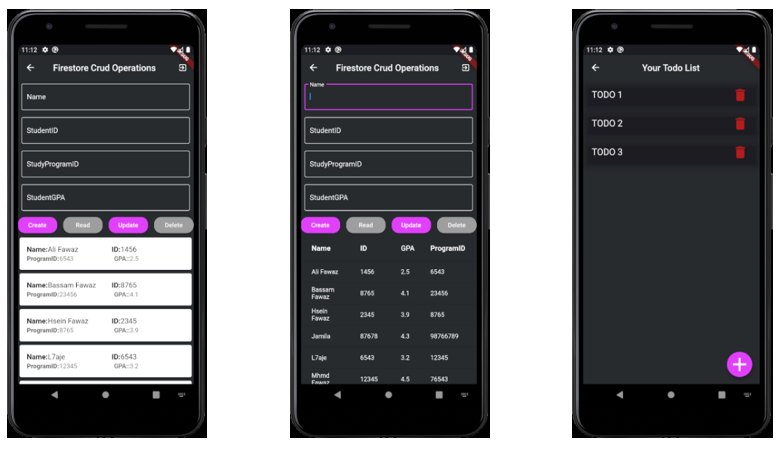
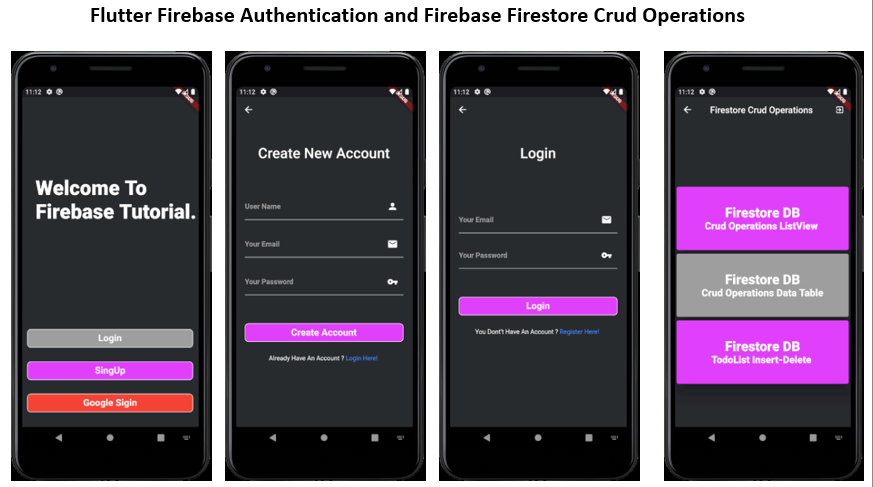
Updating some UI

diff --git a/lib/MainPage.dart b/lib/MainPage.dart
@@ -46,84 +46,98 @@ class _GridLayoutState extends State<GridLayout> {
   @override
   Widget build(BuildContext context) {
     return Center(
-      child:Column(
-        mainAxisAlignment: MainAxisAlignment.center,
-        crossAxisAlignment: CrossAxisAlignment.start,
-        children: [
+      child: ListView(children: [
+        SizedBox(height:140),
 
-        TextButton(
-            onPressed: () {
-              Navigator.push(
+         InkWell(
+
+           onTap: (){
+                  Navigator.push(
                               context,
                               MaterialPageRoute(builder: (context) => D()),
                               );
+           },
+                    child: Card(
+                      color: Colors.purpleAccent,
+                     elevation: 20,
+                child:
+                Container(
+                    padding:EdgeInsets.all(40),
 
-            },
-            child: Column(
-              children: [
-                Text(
-                  'Firestore DB\nCrud ListView',
-                ),
-                SizedBox(height: 30),
-              ],
+                    child:new Column(
+                        crossAxisAlignment: CrossAxisAlignment.start,
+                        children:<Widget>[
+                          Center(child:Text("Firestore DB",style: TextStyle(fontSize:30,fontWeight:FontWeight.w900,color : Colors.white),)),
+
+                          Center(child:Text("Crud Operations ListView ",style: TextStyle(color:Colors.white,fontSize:22,fontWeight:FontWeight.w900))),
+
+                        ]
+                    )
+                )
             ),
-            style: TextButton.styleFrom(
-                primary: Colors.white,
-                backgroundColor: Colors.purpleAccent,
-                textStyle: TextStyle(fontSize: 24, fontWeight: FontWeight.bold)),
-          ),
-            SizedBox(height: 40,),
-            TextButton(
-            onPressed: () {
+         ),
 
-              
-              Navigator.push(
+
+          InkWell(
+
+           onTap: (){
+                      Navigator.push(
                               context,
                               MaterialPageRoute(builder: (context) => D1()),
                               );
-                              
+           },
+                    child: Card(
+                      color: Colors.grey,
+                     elevation: 20,
+                child:
+                Container(
+                    padding:EdgeInsets.all(40),
 
-            },
-            child: 
-              Column(
-                children: [
-                  Text(
-                  'Firestore DB\nCrud DataTable',
-                 ),
-                  SizedBox(height: 30),
-                ],
-              ),
-            style: TextButton.styleFrom(
-                primary: Colors.white,
-                backgroundColor: Colors.grey,
-                textStyle: TextStyle(fontSize: 24, fontWeight: FontWeight.bold)),
-          ),
-            SizedBox(height: 40,),
-            TextButton(
-            onPressed: () {
-              
-              Navigator.push(
+                    child:new Column(
+                        crossAxisAlignment: CrossAxisAlignment.start,
+                        children:<Widget>[
+                          Center(child:Text("Firestore DB",style: TextStyle(fontSize:30,fontWeight:FontWeight.w900,color : Colors.white),)),
+
+                          Center(child:Text("Crud Operations Data Table",style: TextStyle(color: Colors.white,fontSize:22,fontWeight:FontWeight.w900))),
+
+                        ]
+                    )
+                )
+            ),
+         ),
+
+          InkWell(
+
+           onTap: (){
+                  Navigator.push(
                               context,
                               MaterialPageRoute(builder: (context) => Todos()),
                               );
-                              
-            },
-            child:
-             Column(
-               children: [
-                 Text(
-                  'Todo List\nFirestore DB\nCrud',
+           },
+                    child: Card(
+                      color: Colors.purpleAccent,
+                     elevation: 20,
+                child:
+                Container(
+                    padding:EdgeInsets.all(40),
+
+                    child:new Column(
+                        crossAxisAlignment: CrossAxisAlignment.start,
+                        children:<Widget>[
+                          Center(child:Text("Firestore DB",style: TextStyle(fontSize:30,fontWeight:FontWeight.w900,color : Colors.white),)),
+
+                          Center(child:Text("TodoList Insert-Delete ",style: TextStyle(color: Colors.white, fontSize:22,fontWeight:FontWeight.w900))),
+
+                        ]
+                    )
+                )
             ),
-             SizedBox(height: 30),
-               ],
-             ),
-            style: TextButton.styleFrom(
-                primary: Colors.white,
-                backgroundColor: Colors.purpleAccent,
-                textStyle: TextStyle(fontSize: 24, fontWeight: FontWeight.bold)),
-          ),
-            
-      ],)
-    );
+         ),
+
+
+      ]
+        )
+      );
+    
   }
 }
